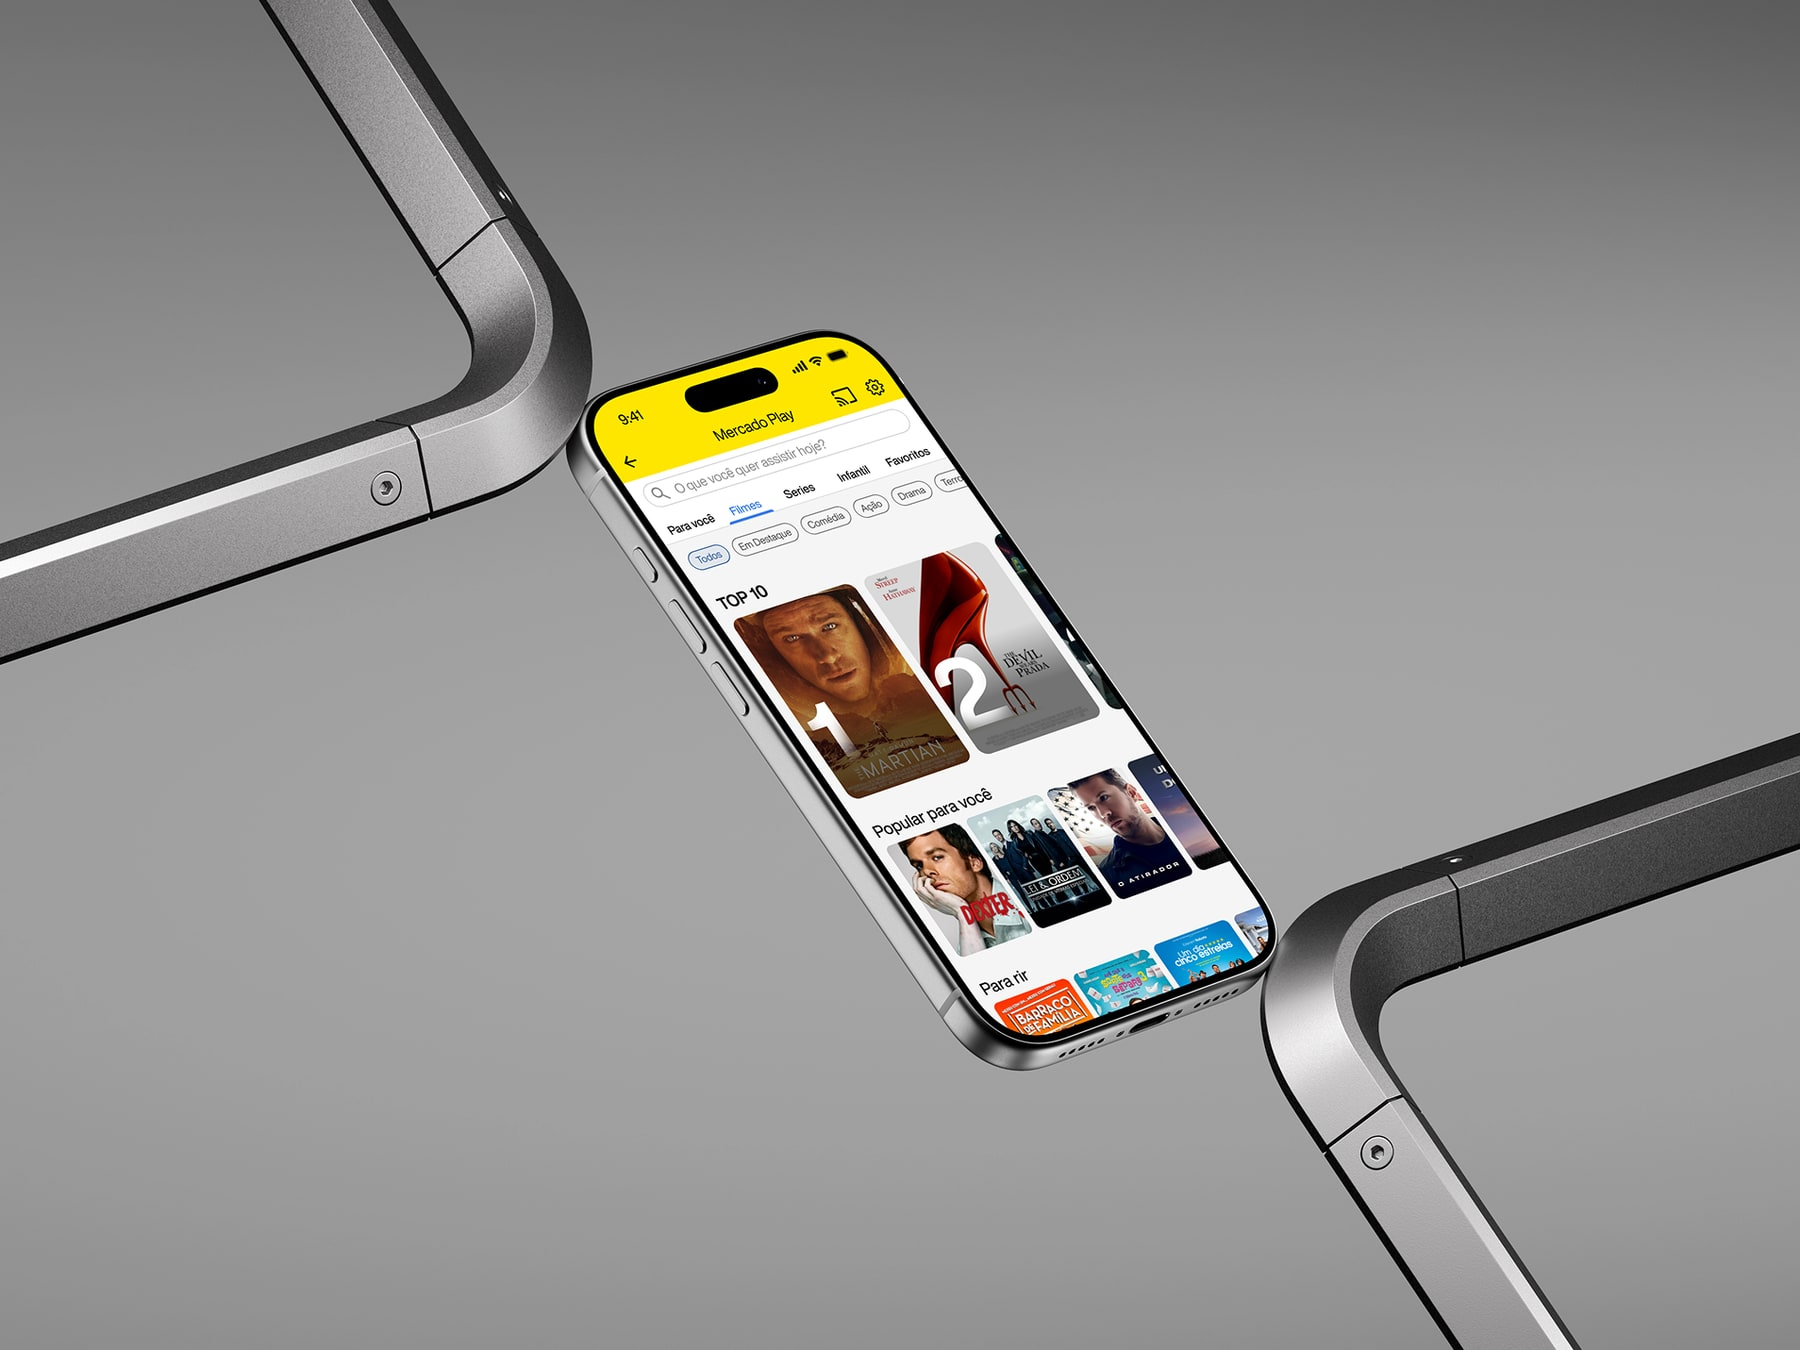
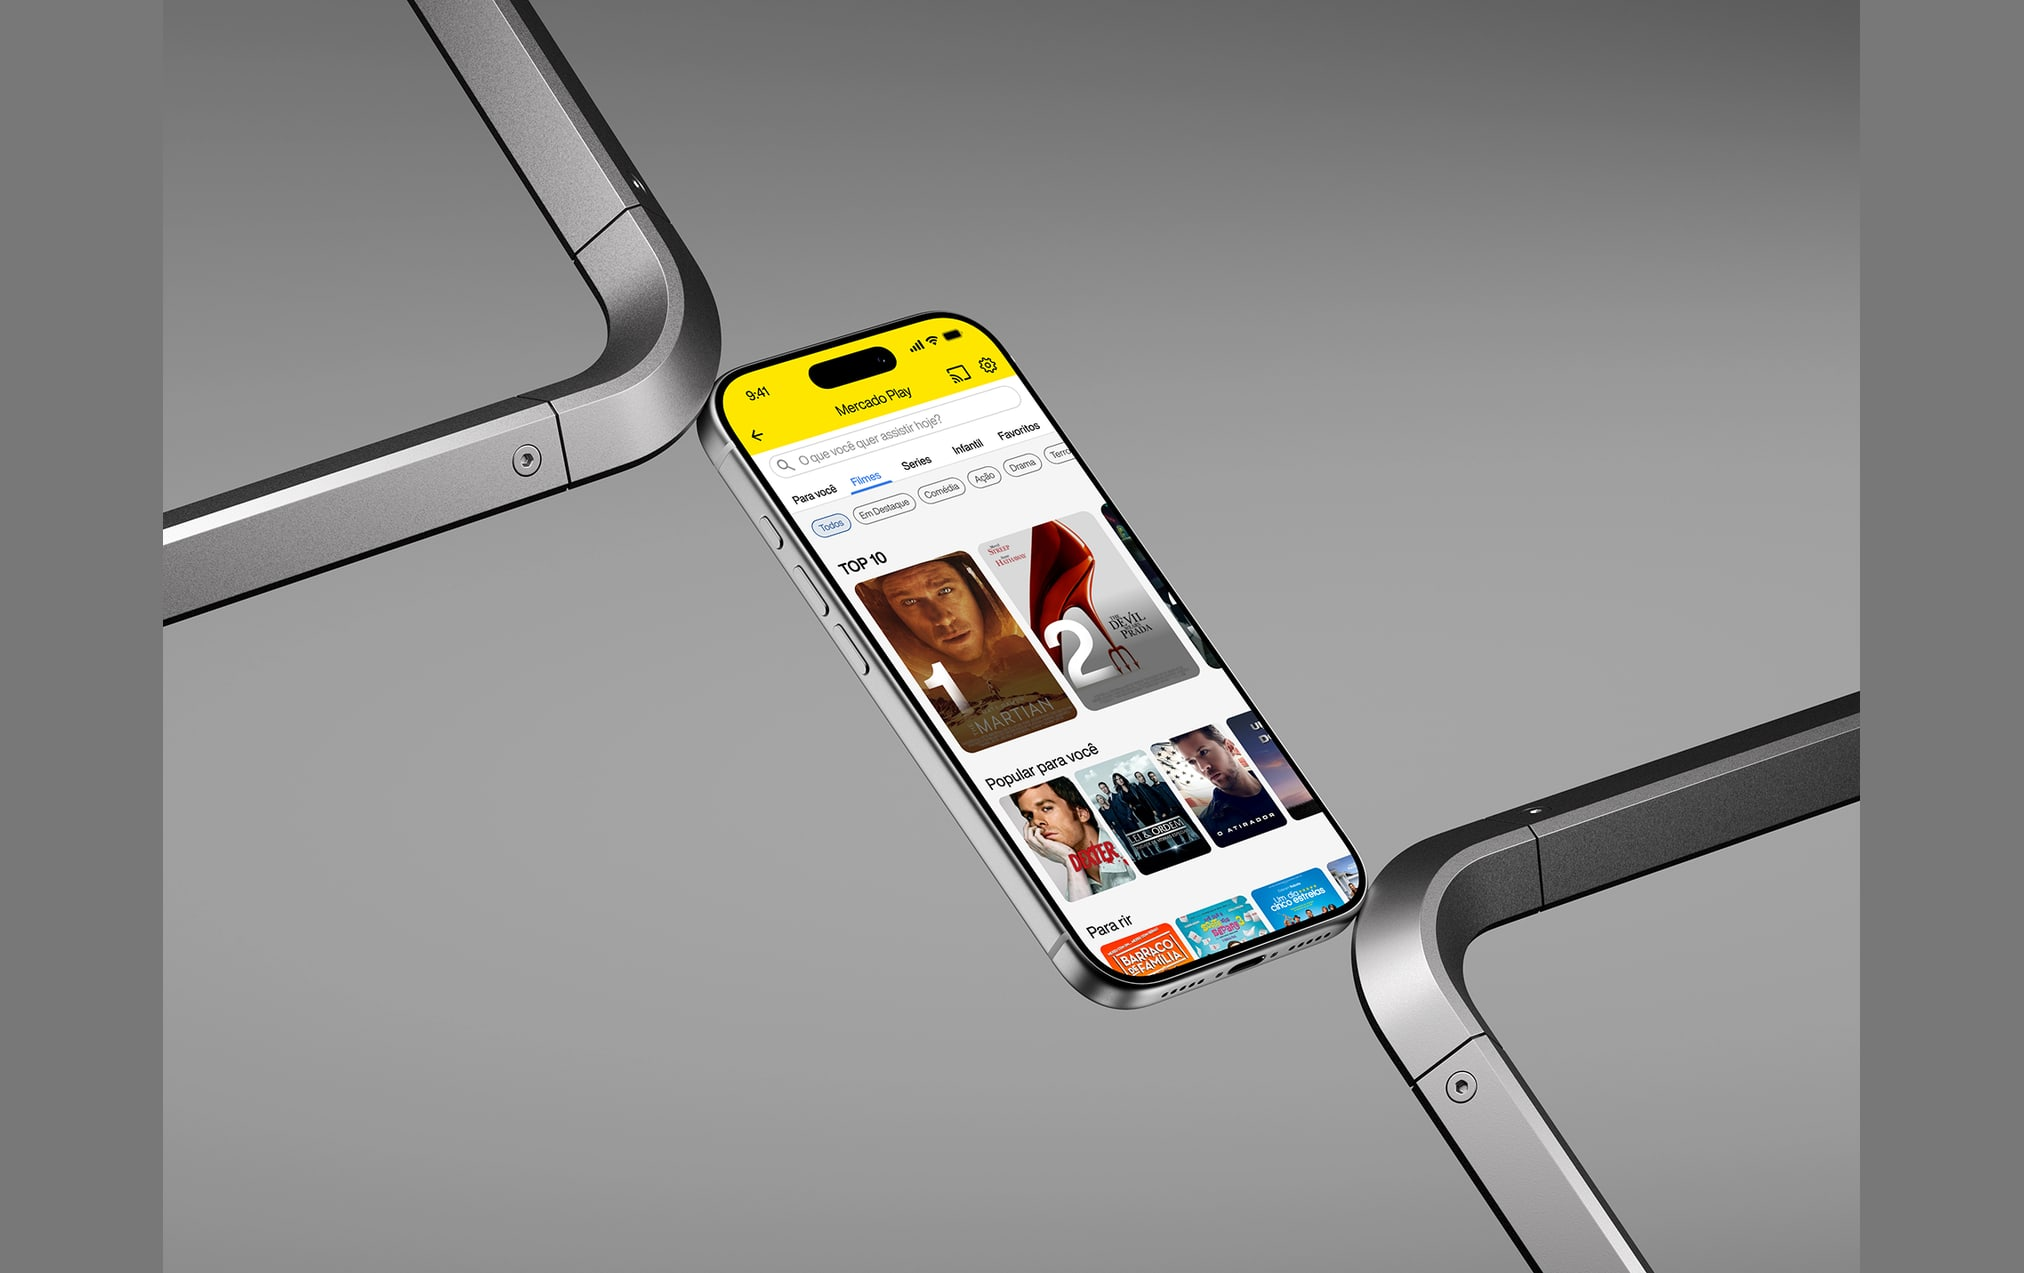
Meli Play screens back to the Dwello card proportion; restore the six cards
The 4:3 cards I switched to were taller than Dwello's and looked wrong
next to it. The mockups are re-normalised to 2024x1273 — the same
1687/1061 ratio Dwello uses — so the CSS goes back to what it was.

Also puts the four removed bento cards back. Removing them was my call
and it was not asked for.

Changed region(s): [[0.0, 0.0, 1.0, 1.0], [0.9022, 0.0, 1.0, 0.0306]]

diff --git a/index.html b/index.html
@@ -83,12 +83,15 @@
         </div>
         <div class="bento-grid">
 
-            <!-- Only cases that open. Anything pointing at wip.html sends the
-                 reader out of the portfolio, which costs more than a shorter
-                 grid does. The removed cards (UX Bank, Seluna Resort, Steam,
-                 Topaz) are in git history and can come back once written. -->
+            <a href="wip.html" class="bento-card bento-size-a" data-cursor="case" data-wip="true">
+                <div class="bento-media"><img src="assets/ux-bank.png" alt="UX Bank" loading="lazy"></div>
+                <div class="bento-meta">
+                    <span class="bento-tag">Case Study &middot; 2025</span>
+                    <h3 class="bento-title">UX Bank</h3>
+                </div>
+            </a>
 
-            <a href="cases/dwello.html" class="bento-card bento-size-half" data-cursor="case">
+            <a href="cases/dwello.html" class="bento-card bento-size-b" data-cursor="case">
                 <div class="bento-media"><img src="assets/dwello.png" alt="Dwello" loading="lazy"></div>
                 <div class="bento-meta">
                     <span class="bento-tag">Case Study &middot; 2025</span>
@@ -96,11 +99,35 @@
                 </div>
             </a>
 
-            <a href="cases/meli-play.html" class="bento-card bento-size-half" data-cursor="case">
+            <a href="cases/meli-play.html" class="bento-card bento-size-c" data-cursor="case">
                 <div class="bento-media"><img src="assets/meli.png" alt="Meli Play" loading="lazy"></div>
                 <div class="bento-meta">
                     <span class="bento-tag" data-i18n="case.meli.tag">Processo Seletivo &middot; 2025</span>
                     <h3 class="bento-title">Meli Play</h3>
+                </div>
+            </a>
+
+            <a href="wip.html" class="bento-card bento-size-d" data-cursor="case" data-wip="true">
+                <div class="bento-media"><img src="assets/resort.png" alt="Seluna Resort" loading="lazy" style="object-position: center 25%;"></div>
+                <div class="bento-meta">
+                    <span class="bento-tag">Case Study &middot; 2025</span>
+                    <h3 class="bento-title">Seluna Resort</h3>
+                </div>
+            </a>
+
+            <a href="wip.html" class="bento-card bento-size-steam" data-cursor="case" data-wip="true">
+                <div class="bento-media"><img src="assets/group-109-1.png" alt="Steam" loading="lazy" style="object-fit: cover; object-position: center; width: 100%; height: 100%;"></div>
+                <div class="bento-meta">
+                    <span class="bento-tag">Redesign &middot; 2025</span>
+                    <h3 class="bento-title">Steam</h3>
+                </div>
+            </a>
+
+            <a href="wip.html" class="bento-card bento-size-topaz" data-cursor="case" data-wip="true">
+                <div class="bento-media"><img src="assets/topaz.png" alt="Topaz" loading="lazy" style="object-fit: cover; object-position: center; width: 100%; height: 100%;"></div>
+                <div class="bento-meta">
+                    <span class="bento-tag">Case &middot; 2025</span>
+                    <h3 class="bento-title">Topaz</h3>
                 </div>
             </a>
 

diff --git a/cases/meli-play.html b/cases/meli-play.html
@@ -439,10 +439,11 @@
     .screen-cell img {
         width: 100%;
         display: block;
-        /* The four mockups are pre-normalised to 4:3, each padded with its own
-           background colour, so the cards line up without letterboxing. */
-        aspect-ratio: 4 / 3;
-        object-fit: cover;
+        /* Same card proportion as Dwello. The mockups are pre-normalised to
+           this ratio, each padded with its own background colour, so nothing
+           letterboxes. */
+        aspect-ratio: 1687 / 1061;
+        object-fit: contain;
     }
     @media (max-width: 720px) { .screen-grid { grid-template-columns: 1fr; } }
 
